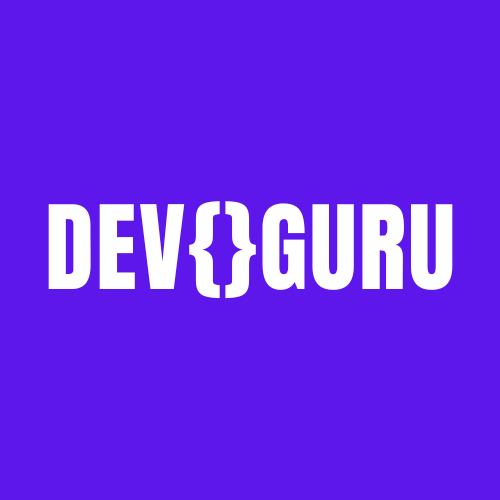
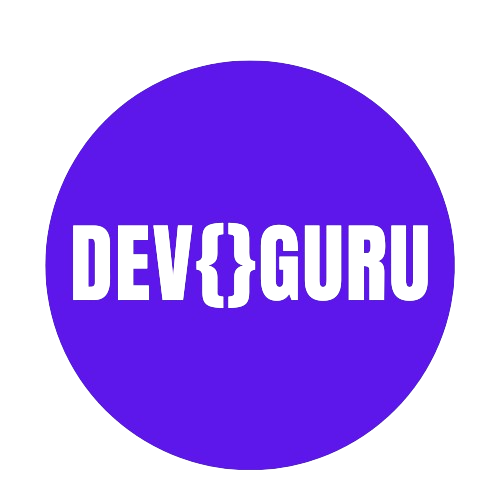
solving structured problems

diff --git a/style.css b/style.css
@@ -131,7 +131,7 @@ button:hover{
     background-color: #DBDBDB;
 }
 .trilho.dark{
-    background-color: #298E92;
+    background-color: #3600a1;
 }
 .trilho.dark .bi-sun-fill{
     opacity: 0;
@@ -168,17 +168,34 @@ body.dark section.sobre span{
 body.dark header{
     transition: .10s;
     border-radius: 0 0 15px 15px;
-    background-color: #31afb4;
+    background-color: #5e17eb;
     box-shadow: 1px 5px 10px -2px rgba(0, 0, 0, 0.25);
 }
 body.dark header a{
     color: #fff;
 }
+body.dark .logo1{
+    opacity: 0;
+    position: absolute;
+}
+body.dark .logo2{
+    visibility: visible;
+    opacity: 2;
+    position: relative;
+    
+}
+body.dark .menu-mobile{
+    background-color: #fcfcfc;
+}
 body.dark .btn-abrir-menu{
     color: #fff;
 }
 body.dark .menu-mobile .btn-fechar i{
-    color: #fff;
+    color: #5e17eb;
+}
+body.dark .menu-mobile nav ul li a{
+    color:#5e17eb;
+    font-weight: 300;
 }
 body.dark button:hover{ 
     background-color: #6926ed;
@@ -187,17 +204,31 @@ body.dark button:hover{
 body.dark .txt-animado span::after{
     background-color: #fff;
     border-left: 2px solid #5e17eb;
+    transition: .5s;    
 }
 body.dark .txt-animado span::before{
     /*conteudo vazio*/
     content: "";
     color: #5e17eb;
     animation: palavras 20s infinite;
+    transition: .5s;
 }
 body.dark .topo-do-site p{
     color: #000;
 }
-
+body.dark .img-topo-site .fototopo1{
+    opacity: 0;
+    position: relative;
+}
+body.dark .img-topo-site .fototopo2{
+    opacity: 1;
+    position: absolute;
+    visibility: visible;
+}
+body.dark section.topo-do-site .flex {
+    align-items: center;
+    justify-content: center;
+}
 /*SOBRE*/
 body.dark .img-sobre .foto1{
     opacity: 0;
@@ -207,6 +238,8 @@ body.dark .img-sobre .foto2{
     opacity: 1;
     visibility: visible;
     position: relative;
+    align-items: center;
+    justify-content: center;
 }
 
 /*FOOTER*/
@@ -361,6 +394,11 @@ header nav ul{
 header .logo img{
     width: 150px;
 }
+header .logo2{
+    visibility: hidden;
+    opacity: 0;
+    position: absolute;
+}
 header nav.menu-desktop ul li{
     display: inline-block;
     padding: 0 40px;
@@ -388,6 +426,12 @@ section.topo-so-site .flex{
     color: #fff;
     margin: 40px 0px; 
     font-size: 25px;
+}
+.img-topo-site .fototopo2{
+    position: absolute;
+    opacity: 0;
+    visibility:hidden;
+    animation: flutuar 1.5s ease-in-out infinite alternate;
 }
 
 .topo-do-site .img-topo-site img{
@@ -420,6 +464,7 @@ section.topo-so-site .flex{
 /*peseudo elemento criado diretamente no css, criadno um elemento dinãmico antes da tag span */
 .txt-animado span::before{
     /*conteudo vazio*/
+    transition: .5s;
     content: "";
     color: #31AFB4;
     animation: palavras 20s infinite;
@@ -433,6 +478,7 @@ section.topo-so-site .flex{
     right: -10px;
     animation: cursor .7s infinite, digita 25s steps(35) infinite;
     width: calc(100% + 330px);
+    transition: .5s;
     background-color: #121212;
 }
 
@@ -687,10 +733,12 @@ footer .line-footer p a{
     }
 
     /* cabeçalho */
-    .menu-desktop, .btn-contato{
+    .menu-desktop{
         display: none;
     }
-
+    .topo-do-site .btn-contato{
+        display: none;
+    }
     /* topo do site */
     section.topo-do-site .flex{
         gap: 5px;
@@ -700,18 +748,22 @@ footer .line-footer p a{
     }
     section.topo-do-site{
         padding: 20px 4%;
+        margin-bottom: 10%;
     
     }
     .topo-do-site h1{
         font-size: 30px;
     }
-    .topo-do-site .img-topo-site{
+    .topo-do-site .img-topo-site, .img-topo-site .fototopo2{
         display: flex;
         align-items: center;
         justify-content: center;
     }
     .topo-do-site .img-topo-site img{
         width: 65%;
+    }
+    body.dark .img-topo-site .fototopo2{
+        width: 100%;    
     }
     /* ANIMAÇÃO DE DIGITAÇÃO */
     .txt-animado h1{
@@ -723,7 +775,8 @@ footer .line-footer p a{
         content: "";
         color: #31AFB4;
         animation: palavras 20s infinite;
-    }
+       transition: .5s;
+ }
 
     .txt-animado span::after{
         content: "";
@@ -734,7 +787,8 @@ footer .line-footer p a{
         animation: cursor .7s infinite, digita 25s steps(35) infinite;
         width: calc(100% + 10px);
         background-color: #121212;
-    }
+        transition: .5s;
+}
 
     @keyframes digita{
         10%, 15%, 30%, 35%, 50%, 55%, 70%, 75%, 90%, 95%{
@@ -767,6 +821,7 @@ footer .line-footer p a{
             content: "";
             color: #31AFB4;
             animation: palavras 20s infinite;
+            transition: .5s;
         }
     
         .txt-animado span::after{
@@ -778,6 +833,7 @@ footer .line-footer p a{
             animation: cursor .7s infinite, digita 25s steps(35) infinite;
             width: calc(100% + 355px);
             background-color: #121212;
+            transition: .5s;
         }
     
         @keyframes digita{
@@ -838,6 +894,7 @@ footer .line-footer p a{
             content: "";
             color: #31AFB4;
             animation: palavras 20s infinite;
+            transition: .5s;
         }
     
         .txt-animado span::after{
@@ -849,7 +906,8 @@ footer .line-footer p a{
             animation: cursor .7s infinite, digita 25s steps(35) infinite;
             width: 350px;
             background-color: #121212;
-        }
+            transition: .5s;
+}
     
         @keyframes digita{
             10%, 15%, 30%, 35%, 50%, 55%, 70%, 75%, 90%, 95%{

diff --git a/index.html b/index.html
@@ -28,7 +28,10 @@
     <header>
         <div class="interface">
             <div class="logo">
-                    <img src="img/devbranco.png" alt="logo tecode">
+                    <img class="logo1" src="img/devbranco.png" alt="logo tecode">
+                    <div class="logo2">
+                        <img src="img/logo-white.png" alt="">
+                    </div>
             </div><!--logo-->
 
             <nav class="menu-desktop">
@@ -37,16 +40,9 @@
                     <li><a href="#especialidades">Especialidades</a></li>
                     <li><a href="#sobre">Sobre</a></li>
                     <li><a href="#projetos">Projetos</a></li>
+                    <li><a href="https://www.instagram.com/devguru___/">Instagram</a></li>
                 </ul>
             </nav>
-
-            <div class="btn-contato">
-                <a href="https://www.instagram.com/devguru___/">
-                    <button>
-                        Instagram
-                    </button>
-                </a>
-            </div>
                 <!-- modo dark -->
                 <div class="trilho" id="trilho">
                     <div class="indicador"><i class="bi bi-sun-fill"></i><i class="bi bi-moon-fill"></i></div>
@@ -85,7 +81,7 @@
                         <h1>CONSTRUINDO <span></span></h1>
                         <p>A programação é uma forma de arte que transcende o mero código. É a expressão de criatividade, a tradução de conceitos abstratos em soluções tangíveis e a capacidade de dar vida às ideias mais ousadas. A tecnologia é a linguagem do futuro, um idioma que conecta e capacita 
                         nossa sociedade moderna.</p>
-                            <div class="btn-contato">
+                            <div class="btn-contato btn-repositorio">
                                 <a href="https://github.com/paulabiancamenezes">
                                     <button>Acesse meu GitHub <i class="bi bi-github"></i></button>
                                 </a>
@@ -93,7 +89,11 @@
                     </div> <!--text-topo-site-->
                     
                     <div class="img-topo-site efeito-img-topo">
-                        <img src="img/devred.png" alt="">
+                        <img class="fototopo1" src="img/devred.png" alt="">
+                        <div class="fototopo2">
+                            <img src="img/devguru.png" alt="">
+                        </div>
+                        
                     </div><!--img-topo-site-->
                 </div> <!--flex-->
             </div> <!--interface-->
@@ -128,7 +128,7 @@
                     <div class="img-sobre efeito-img-sobre">
                         <img class="foto1" src="img/devfundocor.png" alt="devguru___">
                         <div class="foto2">
-                            <img src="img/devguru.png" alt="devguru___">
+                            <img src="img/devguru__.png" alt="devguru___">
                         </div>
                     </div> <!--img-sobre-->
                 <div class="txt-sobre efeito-txt-sobre">
@@ -208,7 +208,7 @@
                         <p>Se você lembra de como era o amigo secreto antigamente vai entender muito bem  meu propósito.
                              Nesse site você pode deixar recados anônimos para os participantes do amigo secreto.
                               E fica tranquilo(a) os recados são anônimos :) .</p>
-                              <div class="btn-contato">
+                              <div class="btn-contato btn-github    ">
                                 <a href="https://github.com/paulabiancamenezes/AmigoSecreto">
                                     <button>Acesse o repositório <i class="bi bi-github"></i></button>
                                 </a>
